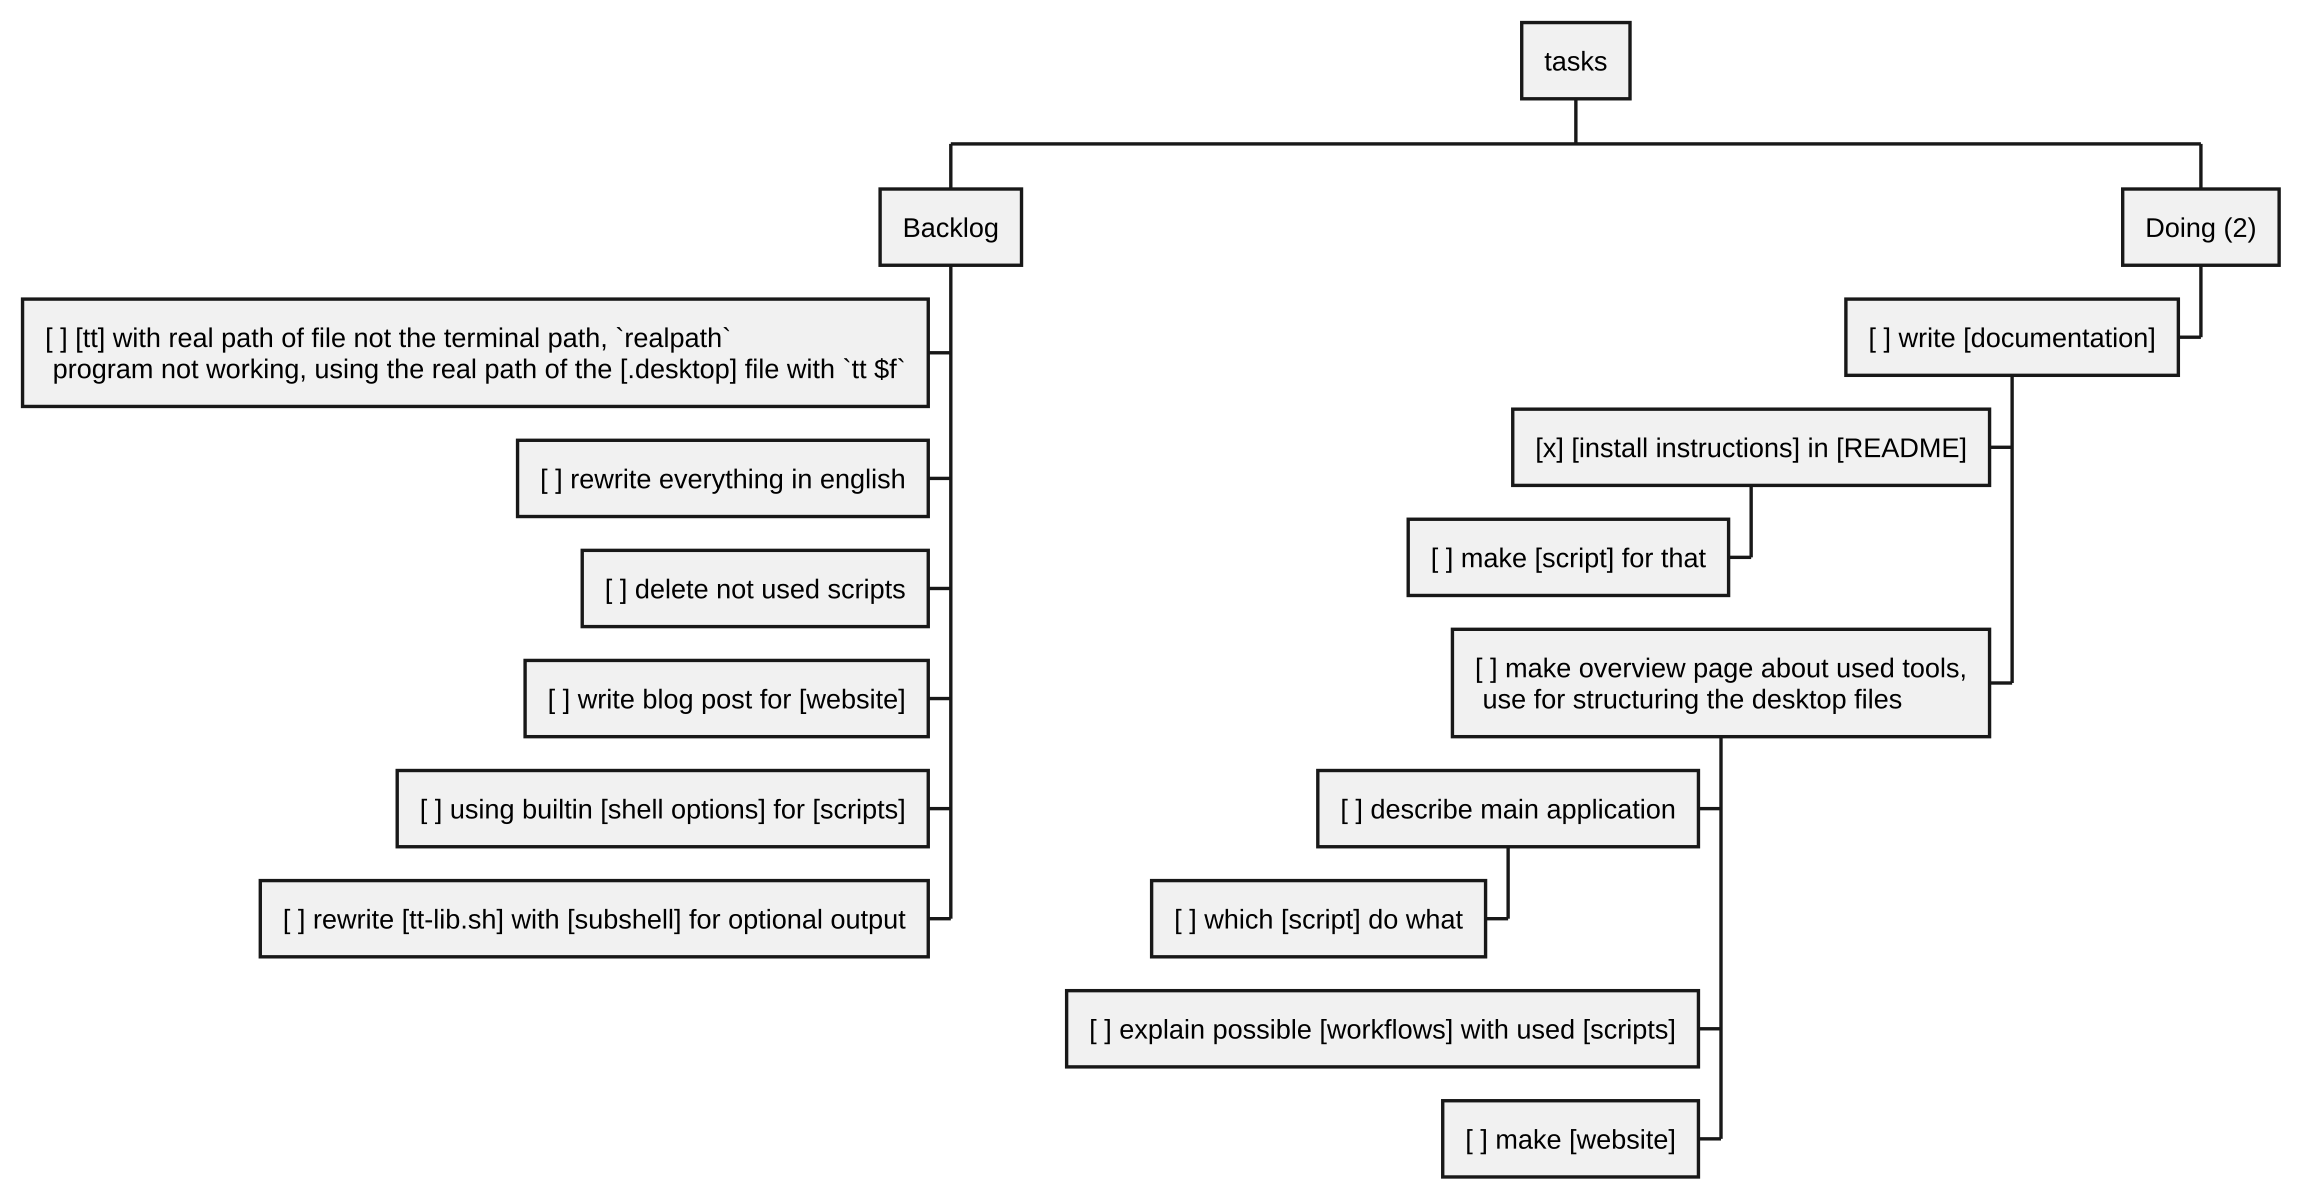
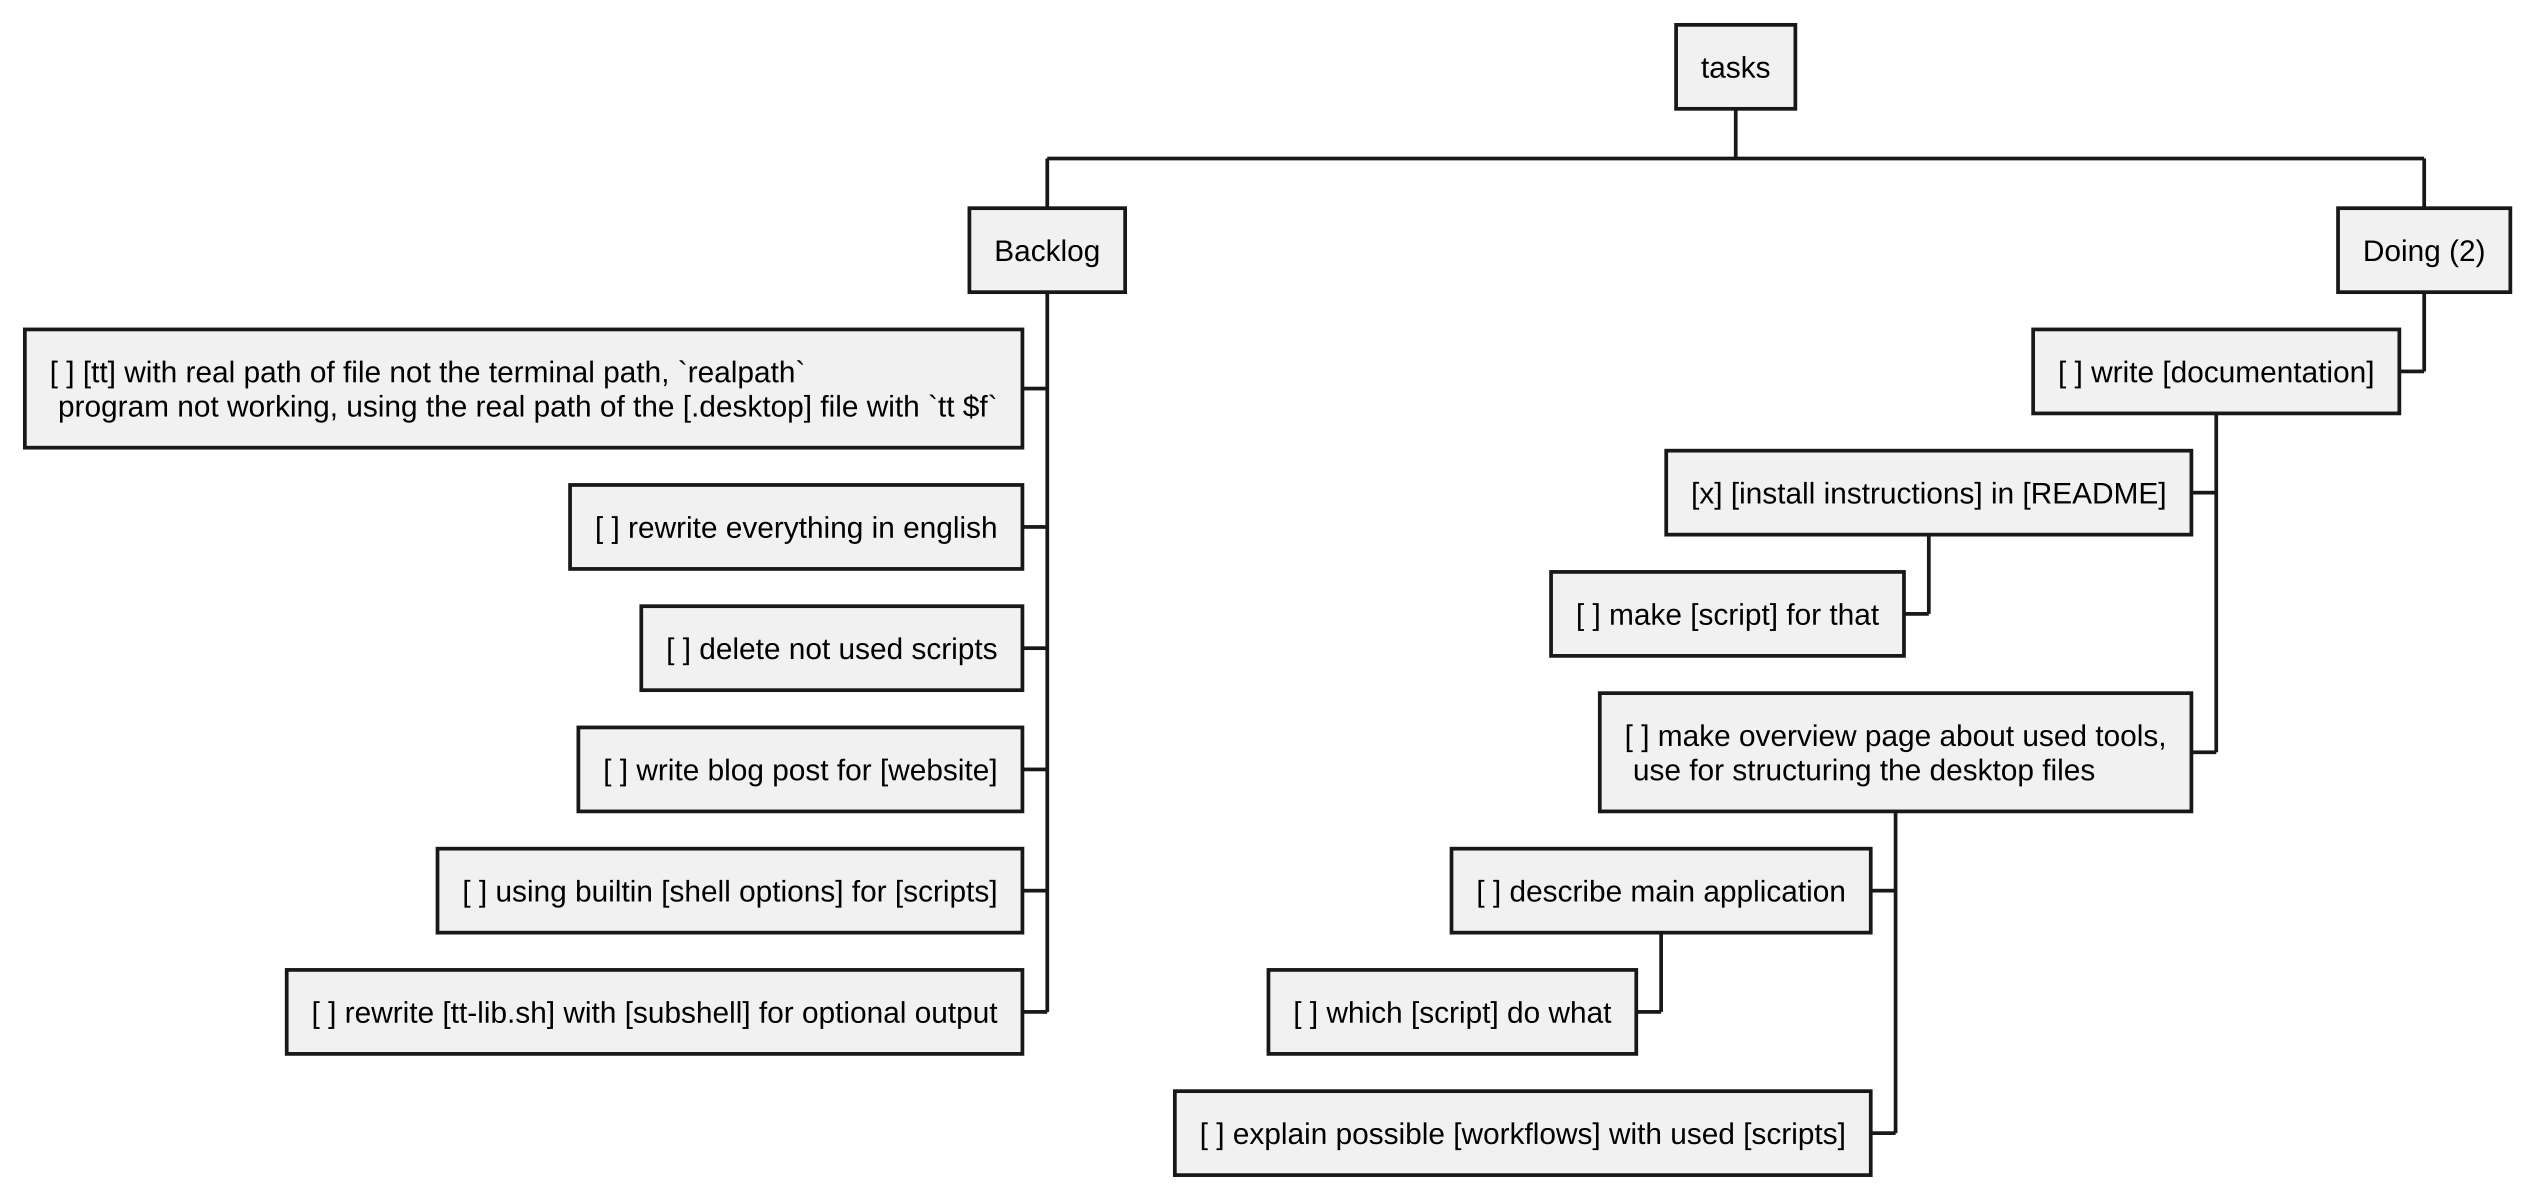
add syntax highlight

Changed region(s): [[0.0, 0.0, 1.0, 0.9867]]

diff --git a/index.html b/index.html
@@ -10,18 +10,17 @@
     <!--
     <link
       rel="stylesheet"
-      href="//cdn.jsdelivr.net/npm/docsify@4/themes/vue.css"
+      href="//cdn.jsdelivr.net/npm/docsify@4/themes/dark.css"
     />
     <link
       rel="stylesheet"
-      href="//cdn.jsdelivr.net/npm/docsify@4/themes/dark.css"
+      href="//cdn.jsdelivr.net/npm/docsify@4/themes/vue.css"
     />
     -->
   </head>
   <body>
     <!-- load docsify script -->
     <script src="//cdn.jsdelivr.net/npm/docsify@4"></script>
-    
     <div id="app"></div>
 
     <script>
@@ -43,6 +42,8 @@
     
     <script src="//cdn.jsdelivr.net/npm/docsify-latex@0"></script>
     
+    <script src="//cdn.jsdelivr.net/npm/prismjs@1/components/prism-bash.min.js"></script>
+    <script src="//cdn.jsdelivr.net/npm/prismjs@1/components/prism-php.min.js"></script>
     
     <nav>
         <a href="#/">EN</a>

diff --git a/Scripts.md b/Scripts.md
@@ -2,9 +2,11 @@
 
 ## Main scripts and libraries
 
-[tt-lib.sh]
-[tt]
-[config.sh]
+[tt-lib.sh](Scripts/tt-lib.sh.md)
+
+[tt](Scripts/tt.md)
+
+[config.sh](Scripts/config.sh.md)
 
 ## tt-tools
 
@@ -17,24 +19,37 @@
 ## Template scripts
 
 [template-calculation.sh]
+
 [template-calculation-project.sh]
+
 [template-note.sh]
+
 [template-tex.sh]
+
 [template-apply.sh]
+
 [insert-code.sh]
+
 [zim-xournal.sh]
 
 ## Work with internet
 
 [tabs2today.sh]
+
 [tabs2topics.sh]
+
 [save-websession.sh]
+
 [open-websession.sh]
+
 [Download-Video.sh]
+
 [Download-Music.sh]
+
 [wgettpic.sh]
 
 ## More related scripts
 
 [mpvv]
+
 [texstudion-noweb-py.sh]

diff --git a/CHANGELOG-JOURNAL.md b/CHANGELOG-JOURNAL.md
@@ -21,7 +21,6 @@
     - [ ] describe main application 
      - [ ] which [script] do what
     - [ ] explain possible [workflows] with used [scripts]
-    - [ ] make [website] 
 @endwbs
 ```
 
@@ -34,6 +33,7 @@ Adding arguments and options to your Bash scripts
 https://www.redhat.com/en/blog/arguments-options-bash-scripts
 
 ### 2025-02-25
+  - [x] make [website] 
   - [x] insert in [scripts] the `author` variable from [config file]
    - [x] insert in [example-config]
 ### 2025-02-17
